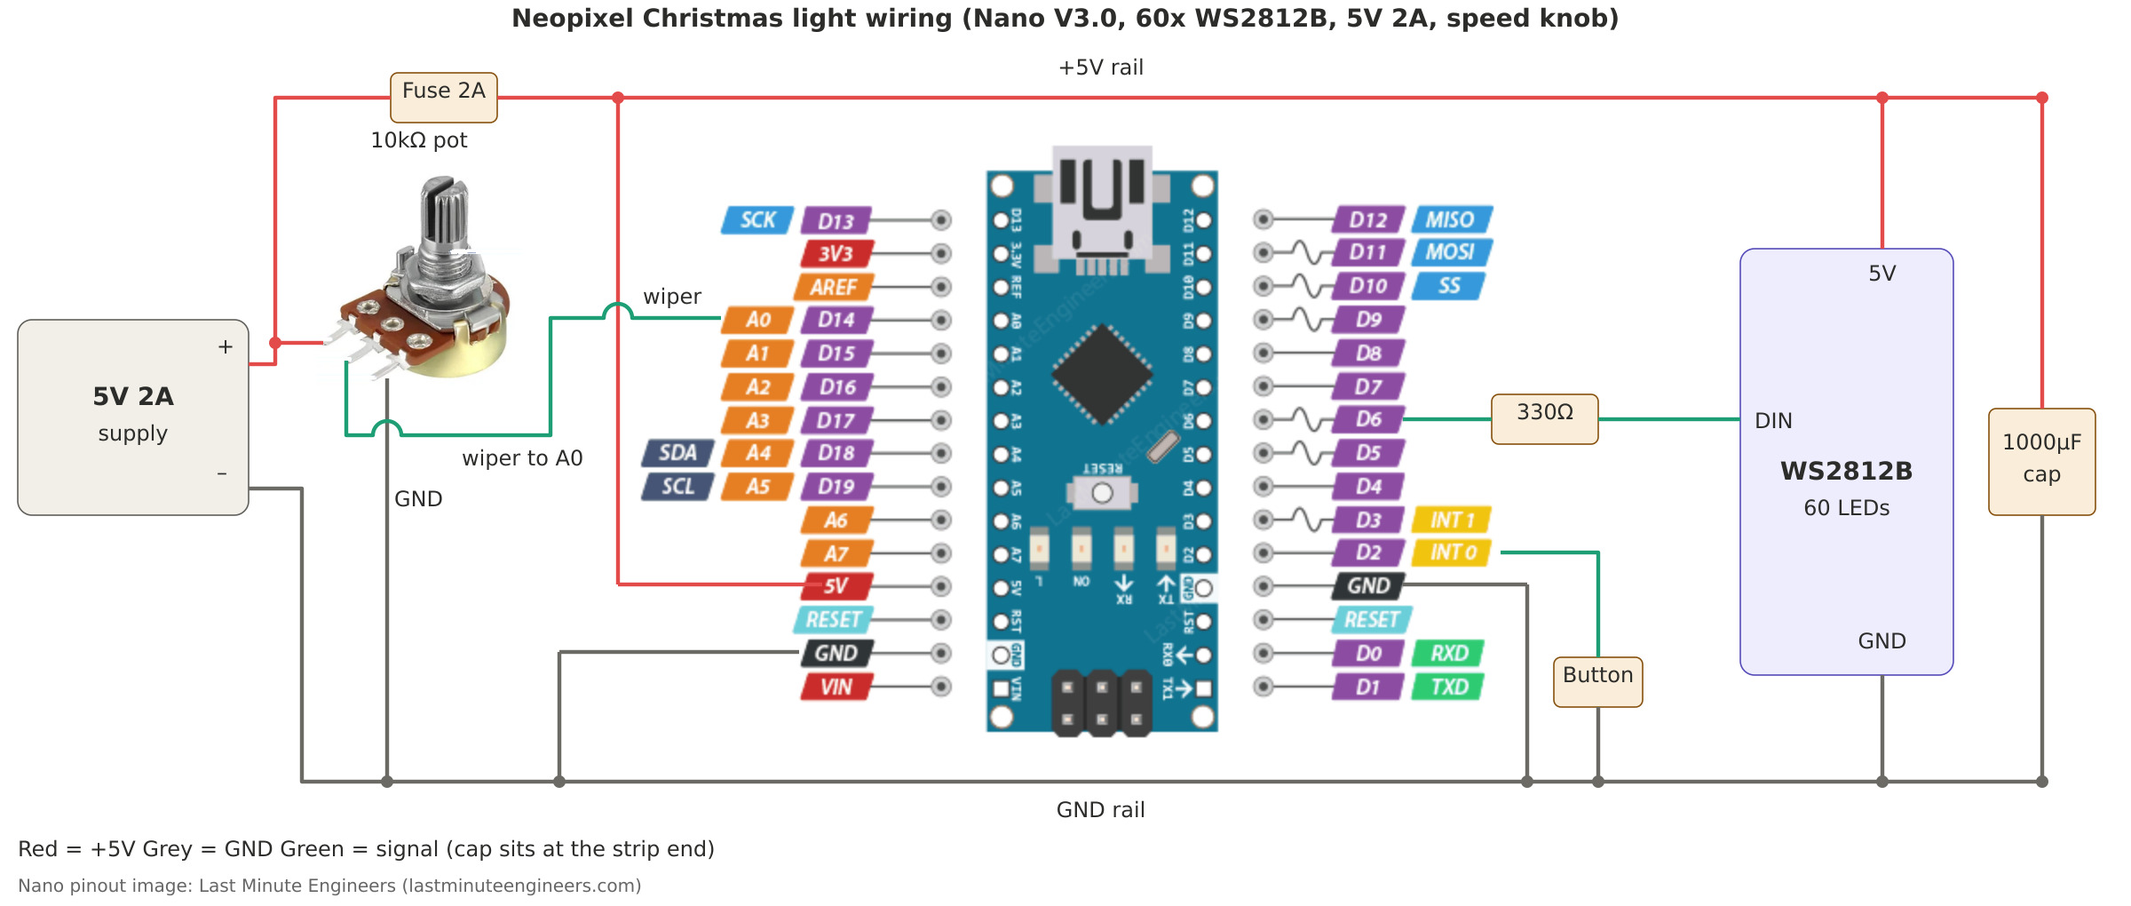
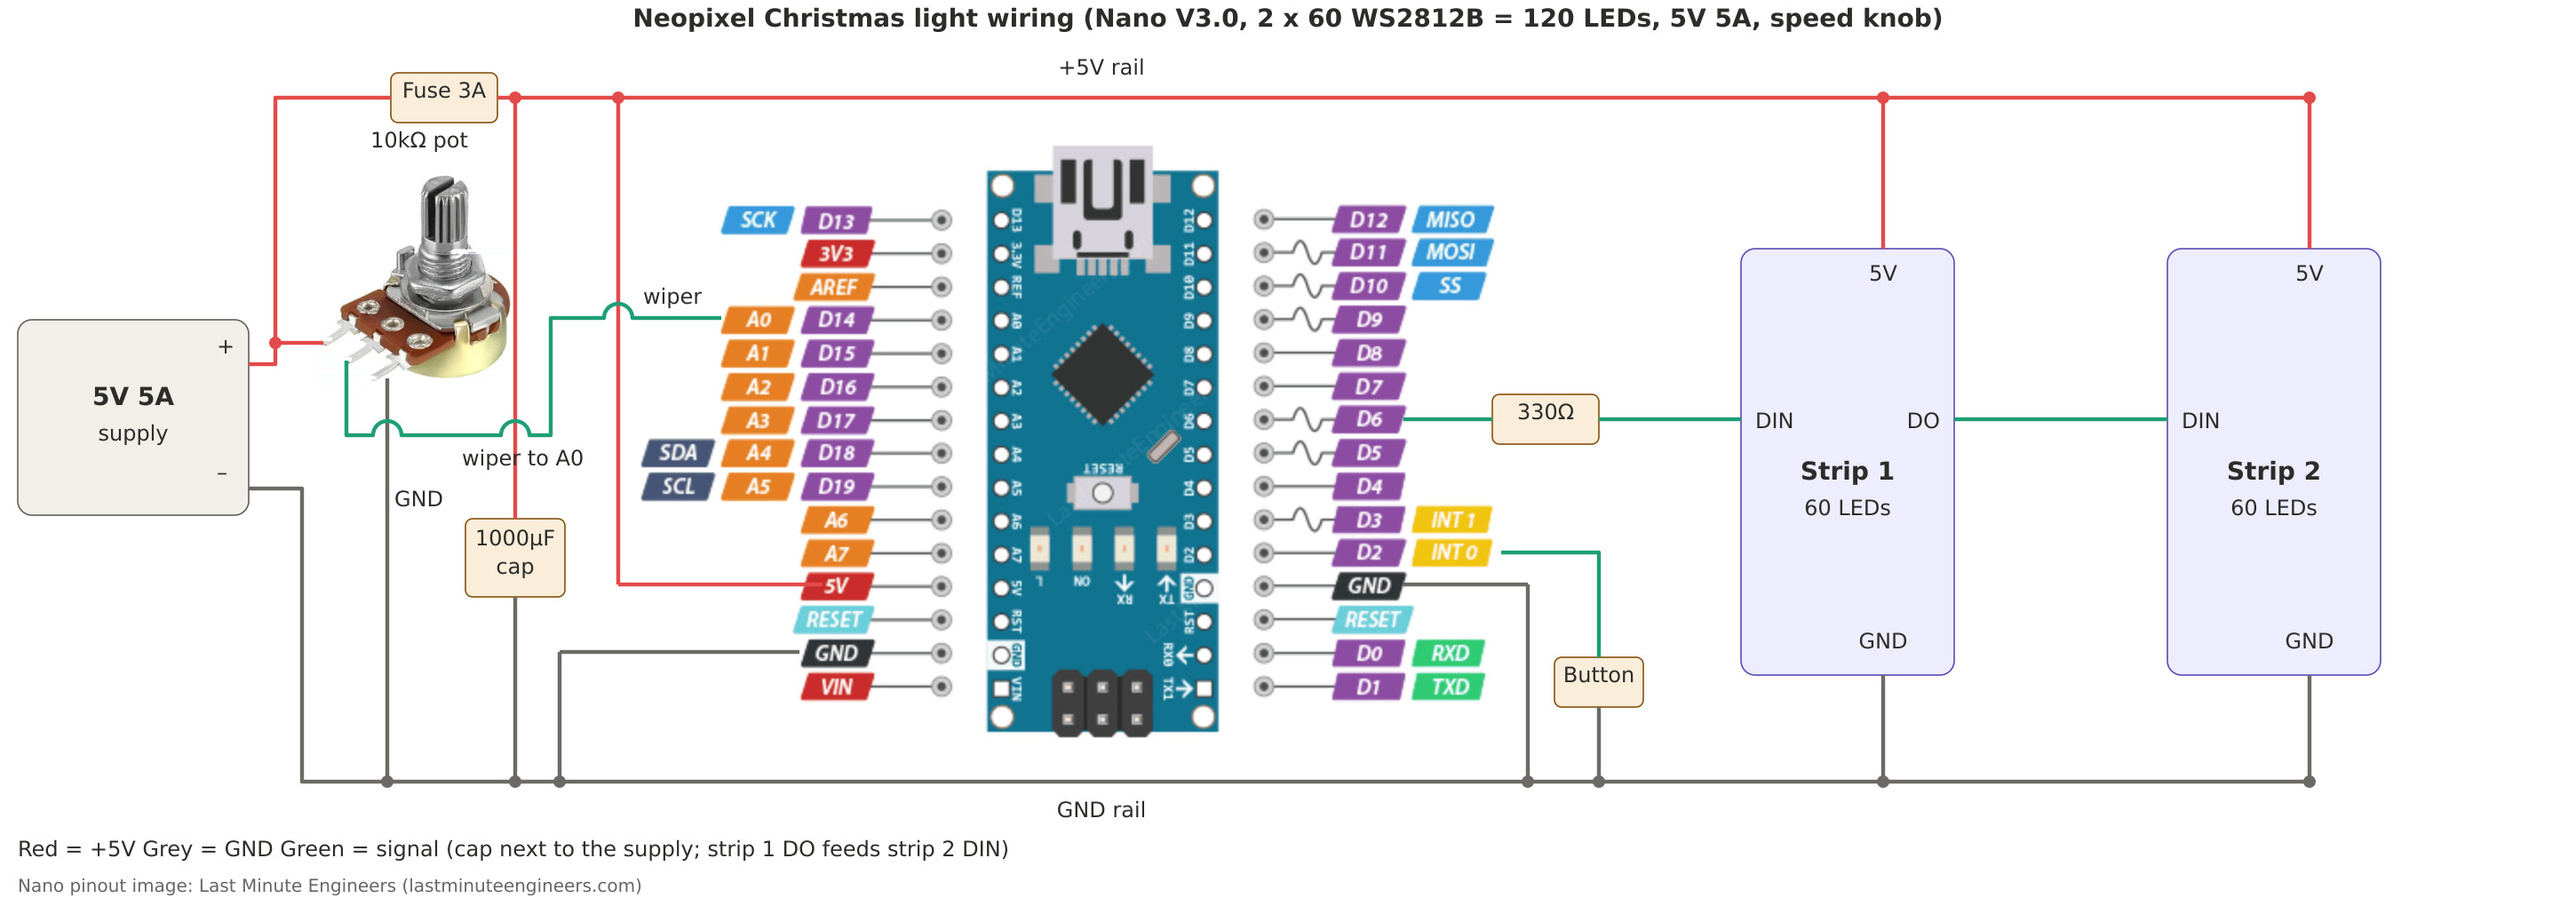
update layout with perforated layout

diff --git a/neopixel-wiring-and-sketch.md b/neopixel-wiring-and-sketch.md
@@ -2,17 +2,18 @@
 
 Files in this folder:
 - `neopixelstrip.ino` - Arduino sketch (open in Arduino IDE; needs the Adafruit NeoPixel library from Library Manager)
-- `neopixel-wiring-diagram-nano-pinout-speed-pot.jpg` - current wiring diagram (Nano pinout, speed knob)
+- `neopixel-wiring-diagram-nano-pinout-speed-pot.jpg` - current wiring diagram (Nano pinout, speed knob, 2 strips, 5V 5A, 3 A fuse)
+- `perfboard-layout.jpg` (top view) / `perfboard-layout-bottom.jpg` (bottom view) / `perfboard-layout.md` - perfboard build layout (24 x 30 holes)
 - `neopixel-wiring-diagram-nano-pinout.jpg` - earlier diagram without the speed knob
 - `neopixel-wiring-diagram.jpg` - first simple block diagram
 
 ## Parts
 - Arduino Nano V3.0
-- WS2812B strip (5 V), 60 LEDs
-- 5 V 2 A power supply (barrel jack or screw-terminal adapter)
-- 1000 uF, 6.3 V+ electrolytic capacitor (watch polarity), placed at the strip end of the rails
+- 2 x WS2812B strip (5 V), 60 LEDs each = 120 LEDs, chained (strip 1 DO -> strip 2 DIN)
+- 5 V 5 A power supply (barrel jack or screw-terminal adapter)
+- 1000 uF, 6.3 V+ electrolytic capacitor (watch polarity), placed right next to the 5V power input (across the supply's 5V and GND, after the fuse)
 - 330 ohm resistor (data line)
-- 2 A fast-blow fuse with holder, or a 1.5-2 A resettable PTC fuse
+- 3 A fast-blow fuse (blade or glass) in an inline holder on the +5V wire, before the board. Not a PTC: a PTC trips at about twice its hold rating, which is too high for a 5 A supply
 - 1 momentary push button (animation select)
 - 1 potentiometer, 10 kohm linear (speed knob). Other values also work (see below)
 - Common ground everywhere
@@ -20,15 +21,17 @@ Files in this folder:
 ## Wiring
 | From | To |
 |---|---|
-| PSU 5V (+) | Fuse, then strip 5V, Nano 5V pin, capacitor (+), pot outer leg 1 |
-| PSU GND (-) | Strip GND, Nano GND, capacitor (-), pot outer leg 2, button leg B |
+| PSU 5V (+) | 3 A fuse, then J1 and the 5V rail: strip 1 5V (J2), strip 2 5V (J3), Nano 5V pin, capacitor (+), pot outer leg 1 |
+| PSU GND (-) | J1 and the GND rail: strip 1 GND (J2), strip 2 GND (J3), Nano GND, capacitor (-), pot outer leg 2, button leg B |
+| Strip 1 DO (data out) | Strip 2 DIN (data only; power to each strip comes from the rails) |
+| J3 (optional) | Strip 2 power terminal. You can skip J3 and put strip 2's 5V and GND wires under J2's screws with strip 1's |
 | Nano D6 | 330 ohm resistor, then strip DIN |
 | Nano D2 | Button leg A |
 | Nano A0 | Pot middle leg (wiper) |
 
 - The button uses INPUT_PULLUP, so no extra resistor is needed.
 - Power the Nano from the same 5 V rail. Do not plug USB in while the PSU powers the 5V pin. Unplug the PSU first when uploading code.
-- Put the 330 ohm resistor close to the strip's first LED, and the capacitor across the strip's 5V and GND.
+- Put the 330 ohm resistor close to the strip's first LED. The capacitor goes next to the 5V power input, across 5V and GND (after the fuse).
 - If turning the knob right makes the animation slower, swap the pot's two outer legs.
 
 ## Potentiometer notes
@@ -37,8 +40,8 @@ Files in this folder:
 - To change the speed range, edit `SPEED_FAST_PCT` (25 = 4x faster) and `SPEED_SLOW_PCT` (280 = 2.8x slower).
 - A log-taper (A-type) pot makes the speed change feel uneven; a linear (B-type) pot is best.
 
-## Power budget (60 LEDs)
-A WS2812B draws up to about 60 mA at full white, so 60 LEDs at full white would need 3.6 A, which is more than the 2 A supply. Brightness is capped at 80/255, giving about 1.1 A worst case. Keep BRIGHTNESS at 120 or below.
+## Power budget (120 LEDs)
+A WS2812B draws up to about 60 mA at full white, so 120 LEDs at full white would need 7.2 A, more than the 5 A supply. Brightness is capped at 80/255, giving about 2.3 A worst case, so a 3 A fuse and the 5 A supply have margin. If you raise BRIGHTNESS, keep it at about 100 or below with the 3 A fuse (a 4 A fuse allows about 120). Both strips are powered from the rails (power injection); only the data wire passes from strip 1 to strip 2. JST-SM connectors are rated about 2 A, so use screw terminals or soldered leads for strip power.
 
 ## Animations (button cycles through them; pot sets speed for all)
 1. Blinking (new random color each blink)
@@ -61,8 +64,8 @@ All animations use the full color range: any hue with random saturation (pastels
 
 #define LED_PIN     6
 #define BUTTON_PIN  2
-#define NUM_LEDS    60     // change to your strip length
-#define BRIGHTNESS  80     // 0-255, keep <= 120 for 60 LEDs on 5V 2A
+#define NUM_LEDS    120    // 2 strips x 60 LEDs, chained (strip 1 DO -> strip 2 DIN)
+#define BRIGHTNESS  80     // 0-255. 80 = ~2.3 A worst case for 120 LEDs; keep <= ~100 with a 3 A fuse (5V 5A supply)
 #define POT_PIN     A0
 
 // Speed range, as a % of each animation's base interval.

diff --git a/perfboard-layout.md b/perfboard-layout.md
@@ -1,0 +1,60 @@
+# Perfboard layout: Neopixel Christmas light (2 x 60 LEDs, 5V 5A)
+
+Board: 70 x 91 mm, perforated area about 61 x 77 mm, 24 columns x 30 rows (2.54 mm pitch, plain board with individual pads).
+Diagrams: `perfboard-layout.jpg` (top view, component side) and `perfboard-layout-bottom.jpg` (bottom view, solder side, mirrored left-right so column 1 is at the right; column numbers are labeled the same as the top view). Row 1 = top in both. Holes are written (column,row).
+
+The Nano sits in the middle of the board, USB end at the top. J2 (strip 1) is at the top near the USB end with its wire entry facing up, away from the Nano. J1 (power in) is at the bottom with its wire entry facing down, away from the Nano. J3 (strip 2 power, optional) is next to J2 at the top.
+
+## Parts
+| Ref | Part | Holes |
+|---|---|---|
+| N1 | Arduino Nano in two 15-pin female sockets | left pins col 9, right pins col 15, rows 9-23 (USB end at row 9) |
+| J1 | 2-position screw terminal (5.08 mm), wire entry facing down | (11,29) +5V, (13,29) GND |
+| F1 | 3 A fuse in an inline holder on the +5V wire BEFORE J1 (not on the board, not a PTC) | off-board |
+| C1 | 1000 uF 6.3 V+ electrolytic, next to J1 | (9,27) +, (9,25) - |
+| J2 | 3-position screw terminal for strip 1, wire entry facing up | (13,3) DIN, (15,3) 5V, (17,3) GND |
+| J3 (optional) | 2-position screw terminal for strip 2 power, wire entry facing up. Leave it out and put strip 2's power wires under J2's 5V and GND screws instead (two wires per screw) | (5,3) GND, (7,3) 5V |
+| R1 | 330 ohm resistor, standing vertically | (17,13) and (17,9) |
+| P1 | 3-pin header for the speed pot | (6,11) 5V, (6,12) wiper, (6,13) GND |
+| SW1 | 2-pin header for the button | (17,19) D2 side, (17,20) GND side |
+
+Use sockets for the Nano so you can remove it. Use header pins or screw terminals for the pot, button and strips so they stay off-board.
+
+## Wires (solder side, insulated; 22 AWG for power, 26-30 AWG for signals)
+| Net | Wire |
+|---|---|
+| +5V power | J1+ (11,29) -> (11,27) -> west along row 27 to (7,27) -> up column 7 to J3 5V (7,3). C1+ sits at (9,27) on this wire |
+| J2 5V | tee at (7,5) -> east along row 5 to (15,5) -> up to J2 5V (15,3) |
+| Nano 5V | (9,20) -> (8,20) -> (7,20) on the column 7 wire |
+| P1 5V | (6,11) -> (7,11) on the column 7 wire |
+| GND power | J1 GND (13,29) -> up to (13,25) -> west along row 25 to (5,25) and east to (19,25). C1- sits at (9,25) on this wire |
+| Left GND riser | (5,25) -> up column 5 to J3 GND (5,3) |
+| P1 GND | (6,13) -> (5,13) on the column 5 wire |
+| Right GND riser | (19,25) -> up column 19 to (19,3) -> west to J2 GND (17,3) |
+| Nano GND / button | Nano GND (15,20) -> SW1 (17,20) -> (19,20) on the column 19 wire |
+| Speed pot wiper | P1 (6,12) -> Nano A0 (9,12) |
+| LED data | Nano D6 (15,15) -> (16,15) -> up column 16 to (16,13) -> R1 (17,13); R1 (17,9) -> up to (17,6) -> west along row 6 to (13,6) -> up to J2 DIN (13,3) |
+| Button | Nano D2 (15,19) -> SW1 (17,19) |
+
+Off-board: strip 1 DO connects to strip 2 DIN.
+
+Without J3: skip the wires to J3 (5V riser top at (7,3) and GND riser top at (5,3)). Strip 2's 5V and GND wires then go under J2's 5V and GND screws together with strip 1's.
+
+Wires cross at (7,12), (7,25) and (13,5). That is fine with insulated wire. Keep the joints of the different nets apart.
+
+## Why it is wired this way
+- The strips' current runs J1 -> rails -> J2/J3 and never through the Nano.
+- The button uses the Nano's GND pin right next to D2 (it only carries a tiny current).
+- Power wires should be thicker than perfboard pads can carry well. Don't rely on the solder pads for the strip current.
+- Both terminals' wire openings face away from the Nano and out toward the board edges, so cables don't cross the Nano.
+
+## Build order
+1. Solder the Nano sockets, headers, terminals, R1 and C1 (check the capacitor's polarity).
+2. Run the power rails and the Nano power wires first, then the signal wires.
+3. Check **before inserting the Nano**: use a meter in continuity mode and confirm the 5V net is **not** connected to the GND net, and every wire above does connect.
+4. Insert the Nano, power J1 with the strips connected, and check the voltage at the Nano's 5V pin before uploading anything.
+5. Do not plug USB into the Nano while J1 is powered.
+
+Free area: the left and right edges, rows 14-23, have room for a 0.1 uF capacitor from A0 to GND if the speed knob jitters.
+
+Pinout reference: Last Minute Engineers (Arduino Nano).
